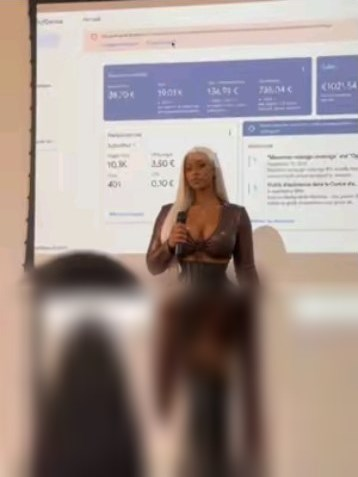
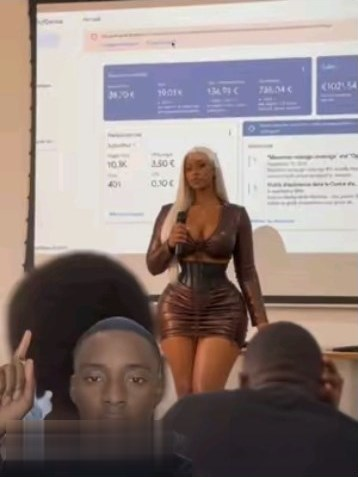
Barre du haut collée au défilement + vraie 3e rangée de vidéos
- La barre du haut reste en haut quand on fait défiler la page ;
  le nom « REMIALDE 9+ » apparaît au centre quand le grand nom disparaît
- Zone blanche de la barre portée à 56px (masque le contenu dessous)
- Vraies miniatures et vues de la 3e rangée (56,3 K, 86,3 K, 192)
- Service worker en version 2 pour récupérer les nouvelles images

diff --git a/script.js b/script.js
@@ -241,6 +241,7 @@ const nouvelIdentifiant = () => `v${Date.now().toString(36)}${Math.random().toSt
 function afficherProfil() {
   const profil = etat.profil;
   $('#profil-nom').textContent = profil.nom.trim();
+  $('#topbar-nom').textContent = profil.nom.trim();
   $('#profil-utilisateur').textContent = `@${profil.utilisateur}`;
   $('#profil-suivis').textContent = formaterNombre(profil.suivis) || '0';
   $('#profil-followers').textContent = formaterNombre(profil.followers) || '0';
@@ -321,6 +322,14 @@ const etatsVides = {
     texte: 'Les vidéos que tu aimes apparaîtront ici.',
   },
 };
+
+// Quand le grand nom disparaît sous la barre du haut, il s'affiche en petit au centre de la barre
+function configurerBarreDuHaut() {
+  const barre = $('.topbar');
+  new IntersectionObserver(([entree]) => {
+    barre.classList.toggle('compacte', !entree.isIntersecting && entree.boundingClientRect.top < barre.offsetHeight);
+  }, { rootMargin: `-${barre.offsetHeight}px 0px 0px 0px` }).observe($('.name'));
+}
 
 function configurerOnglets() {
   const onglets = [...document.querySelectorAll('.tab')];
@@ -927,6 +936,7 @@ $('#ecran-details').addEventListener('fermeture', () => afficherListe());
 /* ---------- Démarrage ---------- */
 
 async function demarrer() {
+  configurerBarreDuHaut();
   configurerOnglets();
   const donnees = await Stockage.charger();
   etat.profil = donnees.profil;

diff --git a/style.css b/style.css
@@ -54,10 +54,38 @@ svg.fill { fill: currentColor; }
 }
 
 /* ---------- Barre du haut ---------- */
+/* Collée en haut quand on fait défiler : la zone blanche (56px) masque ce qui passe dessous, les icônes restent dans les 44px du haut */
 .topbar {
-  position: relative;
-  height: 44px;
+  position: sticky;
+  top: 0;
+  z-index: 5;
+  height: 56px;
+  background: var(--bg);
 }
+
+.topbar-titre {
+  position: absolute;
+  top: 0;
+  left: 50%;
+  display: flex;
+  align-items: center;
+  max-width: 140px;
+  height: 44px;
+  transform: translateX(-50%);
+  font-size: 17.7px;
+  font-weight: 800;
+  white-space: nowrap;
+  opacity: 0;
+  transition: opacity 0.2s;
+  pointer-events: none;
+}
+.topbar.compacte .topbar-titre { opacity: 1; }
+.topbar-titre #topbar-nom {
+  min-width: 0;
+  overflow: hidden;
+  text-overflow: ellipsis;
+}
+.topbar-titre .name-badge { flex: none; margin-left: 3px; transform: none; }
 
 .icon-btn {
   display: block;
@@ -109,7 +137,7 @@ svg.fill { fill: currentColor; }
 
 /* ---------- En-tête du profil ---------- */
 .profile {
-  padding: 18.6px 17px 0;
+  padding: 6.6px 17px 0;
 }
 
 .profile-head { position: relative; }

diff --git a/stockage.js b/stockage.js
@@ -22,9 +22,9 @@ const Stockage = (() => {
     { id: 'v4', type: 'image', image: 'images/video-4.jpg', vues: '20', epingle: false },
     { id: 'v5', type: 'image', image: 'images/video-5.jpg', vues: '61', epingle: false },
     { id: 'v6', type: 'image', image: 'images/video-6.jpg', vues: '66', epingle: false },
-    { id: 'v7', type: 'image', image: 'images/video-7.jpg', vues: '48', epingle: false },
-    { id: 'v8', type: 'image', image: 'images/video-8.jpg', vues: '35', epingle: false },
-    { id: 'v9', type: 'image', image: 'images/video-9.jpg', vues: '112', epingle: false },
+    { id: 'v7', type: 'image', image: 'images/video-7.jpg', vues: '56300', epingle: false },
+    { id: 'v8', type: 'image', image: 'images/video-8.jpg', vues: '86300', epingle: false },
+    { id: 'v9', type: 'image', image: 'images/video-9.jpg', vues: '192', epingle: false },
   ];
 
   let base = null;            // IDBDatabase, ou null si IndexedDB est indisponible

diff --git a/index.html b/index.html
@@ -29,6 +29,8 @@
       <button class="icon-btn edit" id="ouvrir-profil" aria-label="Modifier le profil">
         <svg viewBox="0 0 24 24" class="stroke"><path d="M17.2 3.1a2.6 2.6 0 0 1 3.7 3.7L9.6 18.1q-2.1 2.1-6.5 2.7.6-4.4 2.7-6.5zM14.6 5.7l3.7 3.7"/></svg>
       </button>
+      <!-- Nom affiché dans la barre quand on fait défiler la page -->
+      <div class="topbar-titre" aria-hidden="true"><span id="topbar-nom">REMIALDE</span><span class="name-badge">9+</span></div>
       <div class="topbar-right">
         <button class="visitors" aria-label="Visiteurs du profil">
           <img src="images/visiteur.jpg" alt="">

diff --git a/sw.js b/sw.js
@@ -1,6 +1,6 @@
 // Service worker : rend l'application installable et utilisable sans connexion.
 // Change VERSION à chaque mise en ligne pour que les téléphones récupèrent les nouveaux fichiers.
-const VERSION = 'tiktok-v1';
+const VERSION = 'tiktok-v2';
 
 const FICHIERS = [
   './',
